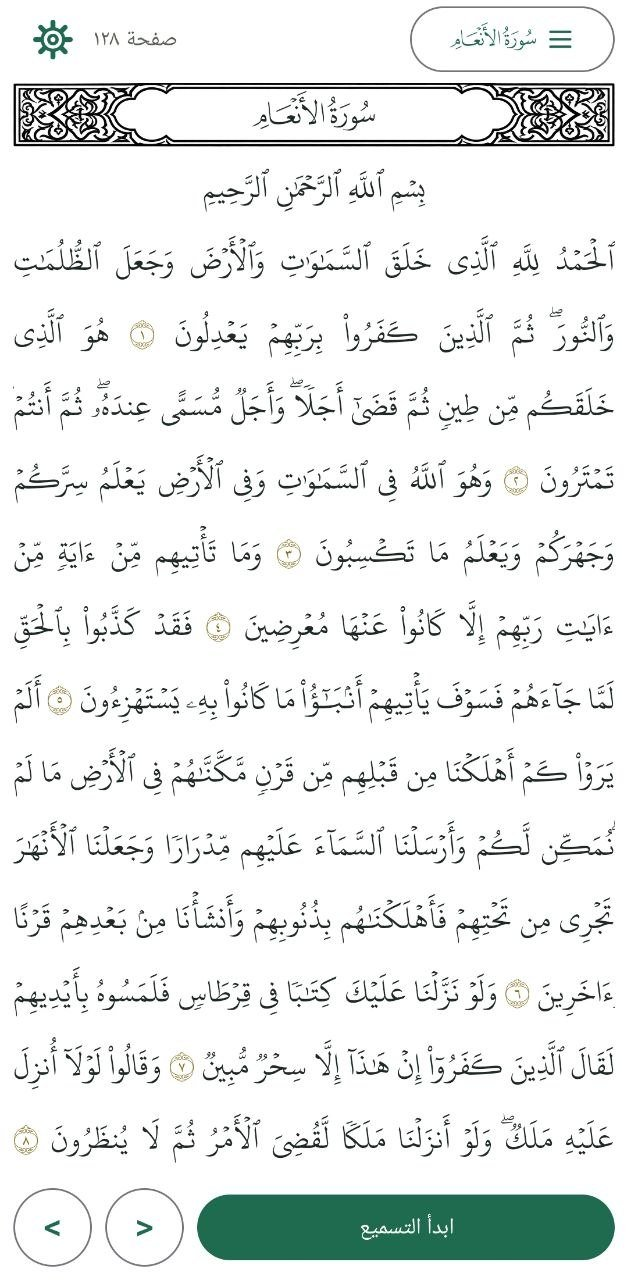
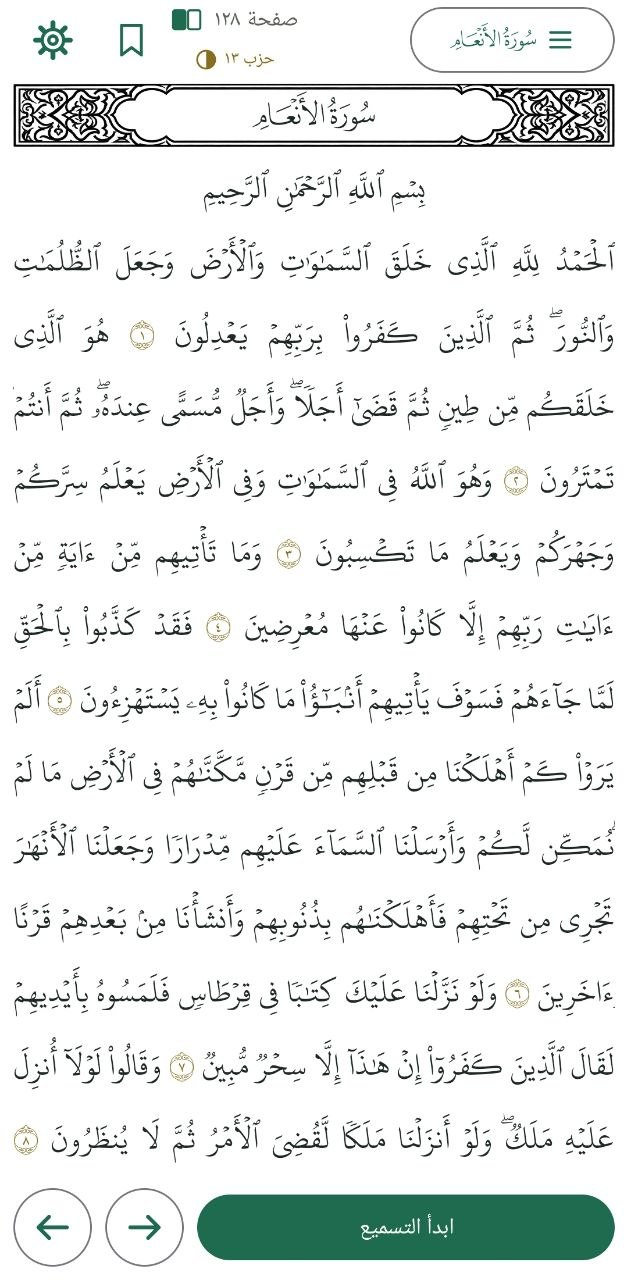
v0.4.7 Automatic pause

diff --git a/app/src/main/java/com/quranrecite/app/ui/screens/RecitationScreen.kt b/app/src/main/java/com/quranrecite/app/ui/screens/RecitationScreen.kt
@@ -1,5 +1,6 @@
 package com.quranrecite.app.ui.screens
 
+import android.widget.Toast
 import androidx.activity.compose.BackHandler
 import androidx.compose.foundation.background
 import androidx.compose.foundation.border
@@ -90,6 +91,9 @@ import kotlinx.coroutines.yield
 
 private val ScreenBg = Color.White
 
+/** No speech for this long while listening -> the session pauses itself. */
+private const val IDLE_PAUSE_MS = 60_000L
+
 // Microphone toggle colours: idle = the existing start green, reciting = amber, paused = slate blue.
 private val MicActive = Color(0xFFB5651D)
 private val MicPaused = Color(0xFF3E5C76)
@@ -139,6 +143,8 @@ fun RecitationScreen(
     LaunchedEffect(curPage) { container.readingPosition.lastPage = curPage }
     // True while progress.finished was caused by "show ayah" (the page's last ayah was shown): that must not end the session.
     var finishedByShow by remember { mutableStateOf(false) }
+    // Idle auto-pause: bumped whenever speech is heard; if the microphone listens for IDLE_PAUSE_MS with no speech, pause it.
+    var heardSeq by remember { mutableStateOf(0) }
 
     // 1) page + basmala -> matcher
     LaunchedEffect(page) {
@@ -153,9 +159,21 @@ fun RecitationScreen(
             when (ev) {
                 is SpeechEvent.Listening -> { error = null; micDenied = false; timer.start() }
                 is SpeechEvent.Error -> error = ev
+                // any recognised speech counts as "heard something" and restarts the idle countdown
+                is SpeechEvent.Partial, is SpeechEvent.Final -> heardSeq++
                 else -> Unit
             }
             matcher.onSpeech(ev)
+        }
+    }
+
+    // 2b) auto-pause after one minute without hearing anything (restarts on Listening and on every Partial/Final)
+    LaunchedEffect(engineState, heardSeq) {
+        if (engineState == EngineState.Listening) {
+            delay(IDLE_PAUSE_MS)
+            timer.pause()
+            engine.pause()
+            Toast.makeText(ctx, "تم إيقاف التسميع مؤقتًا لعدم سماع صوت لمدة دقيقة", Toast.LENGTH_LONG).show()
         }
     }
 

diff --git a/app/src/main/java/com/quranrecite/app/ui/screens/ReaderScreen.kt b/app/src/main/java/com/quranrecite/app/ui/screens/ReaderScreen.kt
@@ -60,7 +60,7 @@ import com.quranrecite.app.domain.description
 import com.quranrecite.app.ui.components.HizbPieIcon
 import com.quranrecite.app.ui.mushaf.MushafStyle
 import com.quranrecite.app.ui.mushaf.SurahNameText
-import com.quranrecite.app.ui.mushaf.firstAyahKey
+import com.quranrecite.app.ui.mushaf.lastAyahKey
 import com.quranrecite.app.ui.mushaf.firstSurah
 import com.quranrecite.app.ui.mushaf.toArabicDigits
 import com.quranrecite.app.ui.theme.Muted
@@ -126,14 +126,15 @@ fun ReaderScreen(
                         PageSideIcon(rightPage, MaterialTheme.colorScheme.primary, 20.dp)
                     }
                 }
-                // hizb of the first ayah on the page; only shown when the 240-quarter data is complete and valid
-                val hizb = hizbs?.let { h -> currentPage?.firstAyahKey()?.let { (s, a) -> h.labelAt(s, a) } }
+                // hizb + juz of the LAST ayah on the page: when a new quarter starts inside the page (not on its first ayah)
+                // the label shows that new quarter. Only shown when the 240-quarter data is complete and valid.
+                val hizb = hizbs?.let { h -> currentPage?.lastAyahKey()?.let { (s, a) -> h.labelAt(s, a) } }
                 if (hizb != null) {
                     Row(
                         verticalAlignment = Alignment.CenterVertically,
-                        modifier = Modifier.semantics { contentDescription = "الحزب ${hizb.hizb}، ${hizb.description()}" },
+                        modifier = Modifier.semantics { contentDescription = "الجزء ${hizb.juz}، الحزب ${hizb.hizb}، ${hizb.description()}" },
                     ) {
-                        Text("حزب ${hizb.hizb.toArabicDigits()}", fontSize = 11.sp, color = MushafStyle.Default.verseNumber)
+                        Text("جزء ${hizb.juz.toArabicDigits()} · حزب ${hizb.hizb.toArabicDigits()}", fontSize = 11.sp, color = MushafStyle.Default.verseNumber)
                         Spacer(Modifier.width(4.dp))
                         HizbPieIcon(hizb.part, MushafStyle.Default.verseNumber, 13.dp)
                     }

diff --git a/app/src/main/java/com/quranrecite/app/ui/mushaf/MushafData.kt b/app/src/main/java/com/quranrecite/app/ui/mushaf/MushafData.kt
@@ -55,6 +55,12 @@ fun QuranPage.firstAyahKey(): Pair<Int, Int>? {
     return null
 }
 
+/** (surah, ayah) of the last word on the page, or null. A quarter that starts inside the page is the one this ayah lies in. */
+fun QuranPage.lastAyahKey(): Pair<Int, Int>? {
+    for (l in lines.asReversed()) if (l is PageLine.Ayahs && l.words.isNotEmpty()) return l.words.last().let { it.surah to it.ayah }
+    return null
+}
+
 /** Surah that the page starts in (first ayah word, else first header). */
 fun QuranPage.firstSurah(): Int? {
     for (l in lines) if (l is PageLine.Ayahs && l.words.isNotEmpty()) return l.words.first().surah

diff --git a/app/src/main/java/com/quranrecite/app/domain/HizbQuarters.kt b/app/src/main/java/com/quranrecite/app/domain/HizbQuarters.kt
@@ -1,7 +1,10 @@
 package com.quranrecite.app.domain
 
 /** Where in its hizb an ayah lies: [hizb] 1..60 and [part] 0 = start of the hizb, 1 = a quarter, 2 = a half, 3 = three quarters. */
-data class HizbLabel(val hizb: Int, val part: Int, val quarter: Int)
+data class HizbLabel(val hizb: Int, val part: Int, val quarter: Int) {
+    /** Juz' 1..30 of this quarter: every juz is 8 quarters and starts on a hizb start (checked in [HizbQuarters.problem]). */
+    val juz: Int get() = (quarter - 1) / 8 + 1
+}
 
 /**
  * The 240 hizb-quarter (rub' al-hizb) starts of the Madani Mushaf as (surah, ayah), in reading order.

diff --git a/app/src/test/java/com/quranrecite/app/domain/HizbDataTest.kt b/app/src/test/java/com/quranrecite/app/domain/HizbDataTest.kt
@@ -52,6 +52,13 @@ class HizbDataTest {
         assertEquals(HizbLabel(60, 3, 240), quarters.labelAt(114, 6))   // last ayah
     }
 
+    @Test fun juzOfLabel() {
+        assertEquals(1, quarters.labelAt(1, 1)!!.juz)
+        assertEquals(1, quarters.labelAt(2, 141)!!.juz)
+        assertEquals(2, quarters.labelAt(2, 142)!!.juz)
+        assertEquals(30, quarters.labelAt(114, 6)!!.juz)
+    }
+
     @Test fun juzStartsAreHizbStarts() {
         for ((j, juz) in JuzStarts.FIRST_AYAH.withIndex()) {
             val label = quarters.labelAt(juz.first, juz.second)!!

diff --git a/README.md b/README.md
@@ -21,15 +21,15 @@ packaged inside the APK. There is no account, no cloud, no analytics, and the ap
 This repository contains the complete Android project and the GitHub Actions workflow that builds the APK.
 
 ## Screenshots
-| Reading | Navigate (Surah / Page / Juz) | Recitation |
+| Reading | Navigate (Surah / Page / Juz) | Recitation (words hidden) |
 |:---:|:---:|:---:|
-| <img src="docs/screenshots/01-reader.jpg" width="230"/> | <img src="docs/screenshots/02-navigation.jpg" width="230"/> | <img src="docs/screenshots/03-recitation.jpg" width="230"/> |
-| Standard 15-line Mushaf page | Jump to any surah, page or juz | Hidden words, live reveal, controls |
+| <img src="docs/screenshots/01-reader.jpg" width="230"/> | <img src="docs/screenshots/02-navigation.jpg" width="230"/> | <img src="docs/screenshots/03-recitation-hidden.jpg" width="230"/> |
+| Standard 15-line Mushaf page, juz/hizb label | Jump to any surah, page or juz | Hidden words, controls |
 
-| Tap a hidden word | Settings |
-|:---:|:---:|
-| <img src="docs/screenshots/04-word-menu.jpg" width="230"/> | <img src="docs/screenshots/05-settings.jpg" width="230"/> |
-| Start from here / reveal this word | Strictness, review marks, diagnostics |
+| Recitation (live reveal) | Session summary | Settings |
+|:---:|:---:|:---:|
+| <img src="docs/screenshots/04-recitation-live.jpg" width="230"/> | <img src="docs/screenshots/05-summary.jpg" width="230"/> | <img src="docs/screenshots/06-settings.jpg" width="230"/> |
+| Words appear as you recite | Progress and words for review | Strictness, continuous mode, diagnostics |
 
 ## Features
 **Mushaf reader**
@@ -42,6 +42,7 @@ This repository contains the complete Android project and the GitHub Actions wor
 **Recitation mode**
 - Page words are hidden and replaced by a thin, continuous gray underline that follows the real position and width of the unrevealed words; revealed words appear in place with full diacritics and **nothing moves or reflows**.
 - Live, on-device speech recognition reveals each word as you recite it, with partial skips and uncertain words marked for review.
+- **Auto-pause:** if the microphone hears no speech for **1 minute**, recitation pauses by itself; press the button to resume.
 - **One microphone button** for start, pause and resume: green mic (ready), amber pause icon (recording), blue play icon (paused). Pausing really stops the microphone, and resuming continues from the same word.
 - **تلميح (Hint)** reveals the next word.
 - **إظهار الآية (Show ayah)** reveals the current ayah; each further press reveals the next ayah, moving on to the next page automatically when needed, without stopping the session.
@@ -50,7 +51,7 @@ This repository contains the complete Android project and the GitHub Actions wor
 - Session summary: progress and a list of words **للمراجعة** (for review).
 
 **Other**
-- **Hizb indicator** under the page number: `حزب N` plus a drawn pie for ¼ / ½ / ¾ of the hizb or the start of a hizb, from the complete 240-quarter data in `qpc-hafs.db` (`python3 tools/validate_hizb_quarters.py` checks it).
+- **Juz/Hizb indicator** under the page number: `جزء N · حزب N` plus a drawn pie for ¼ / ½ / ¾ of the hizb or the start of a hizb, taken from the **last ayah on the page**, so when a new quarter starts inside the page the label shows that new quarter (and its juz); data is the complete 240-quarter table in `qpc-hafs.db` (`python3 tools/validate_hizb_quarters.py` checks it).
 - Open-book icon next to the page number shows the side of the Mushaf spread: odd pages are the right page, even pages the left page.
 - Welcome page with the Basmala, white background like a printed Mushaf, Arabic right-to-left interface.
 - Settings: recitation strictness (lenient / normal / strict), show review marks immediately, ASR diagnostics.

diff --git a/docs/RELEASE_NOTES_v0.4.7.md b/docs/RELEASE_NOTES_v0.4.7.md
@@ -1,0 +1,5 @@
+## تسميع — Quran Tasmee3 v0.4.7
+
+- **Juz/Hizb label follows the end of the page:** the top bar now uses the *last* ayah on the page. If a new hizb quarter starts inside the page, the label shows that new quarter, with its juz (`جزء N · حزب N`).
+- **Auto-pause:** recitation pauses by itself after 1 minute without hearing any speech.
+- Screenshots in the README replaced with current ones (reader, navigation, recitation, live reveal, summary, settings).
